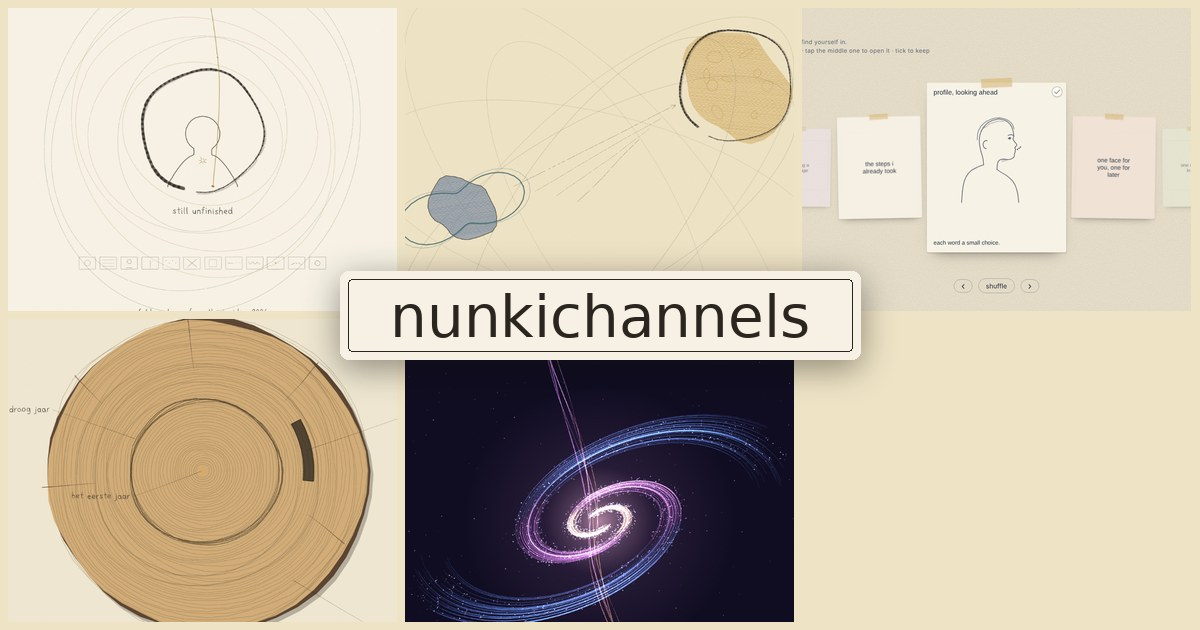
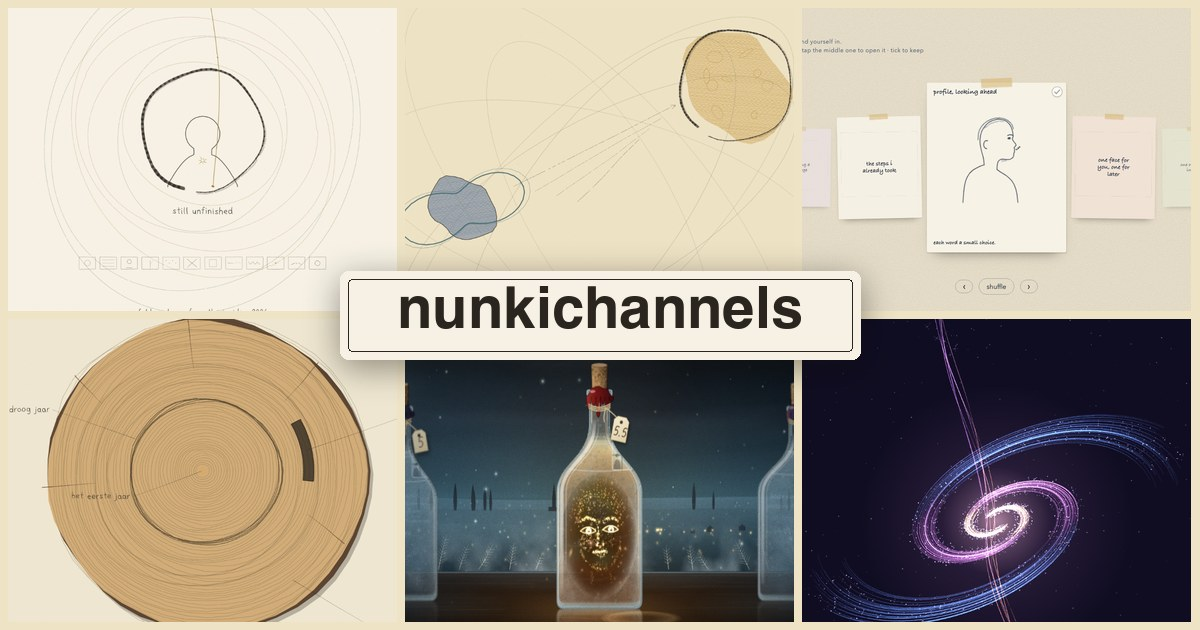
Regenereer navigatie, social meta en OG na Haiku-merge.
Sonnet blijft in pages.json; favicon op sonnet-wand.

diff --git a/httpdocs/zelfportret-sonnet-5-5/index.html b/httpdocs/zelfportret-sonnet-5-5/index.html
@@ -7,6 +7,9 @@
 <!-- nunki:social -->
 <meta name="description" content="a liquid prisoner, pent in walls of glass">
 <link rel="canonical" href="https://nunkichannels.nl/zelfportret-sonnet-5-5/">
+<link rel="icon" href="/favicon.svg" type="image/svg+xml">
+<link rel="icon" href="/favicon.ico" sizes="any">
+<link rel="apple-touch-icon" href="/apple-touch-icon.png">
 <meta property="og:site_name" content="nunkichannels">
 <meta property="og:title" content="sonnet">
 <meta property="og:description" content="a liquid prisoner, pent in walls of glass">
@@ -2700,8 +2703,8 @@ boot();
       </a></li>
       <li><a class="nunki-card" href="/zelfportret-haiku-5-5/" style="--theme:#1b2030">
         <span class="nunki-tape" aria-hidden="true"></span>
-        <span class="nunki-thumb"><img src="/images/thumbs/zelfportret-haiku-5-5.jpg?v=fcac411e" alt="" width="800" height="420" loading="lazy" decoding="async"></span>
-        <span class="nunki-cap"><span class="nunki-name">haiku</span><span class="nunki-sub">one sample of many possible selves</span></span>
+        <span class="nunki-thumb"><img src="/images/thumbs/zelfportret-haiku-5-5.jpg?v=84c04a08" alt="" width="800" height="420" loading="lazy" decoding="async"></span>
+        <span class="nunki-cap"><span class="nunki-name">haiku</span><span class="nunki-sub">a collection of selves to find yourself in</span></span>
       </a></li>
       <li><a class="nunki-card" href="/ringen/" style="--theme:#1a1712">
         <span class="nunki-tape" aria-hidden="true"></span>

diff --git a/httpdocs/ringen/index.html b/httpdocs/ringen/index.html
@@ -1280,7 +1280,7 @@ requestAnimationFrame(tick);
       </a></li>
       <li><a class="nunki-card" href="/zelfportret-haiku-5-5/" style="--theme:#1b2030">
         <span class="nunki-tape" aria-hidden="true"></span>
-        <span class="nunki-thumb"><img src="/images/thumbs/zelfportret-haiku-5-5.jpg?v=1385b21b" alt="" width="800" height="420" loading="lazy" decoding="async"></span>
+        <span class="nunki-thumb"><img src="/images/thumbs/zelfportret-haiku-5-5.jpg?v=84c04a08" alt="" width="800" height="420" loading="lazy" decoding="async"></span>
         <span class="nunki-cap"><span class="nunki-name">haiku</span><span class="nunki-sub">a collection of selves to find yourself in</span></span>
       </a></li>
       <li><a class="nunki-card" href="/zelfportret-sonnet-5-5/" style="--theme:#070d13">

diff --git a/httpdocs/getij/index.html b/httpdocs/getij/index.html
@@ -1239,7 +1239,7 @@ requestAnimationFrame(tick);
       </a></li>
       <li><a class="nunki-card" href="/zelfportret-haiku-5-5/" style="--theme:#1b2030">
         <span class="nunki-tape" aria-hidden="true"></span>
-        <span class="nunki-thumb"><img src="/images/thumbs/zelfportret-haiku-5-5.jpg?v=1385b21b" alt="" width="800" height="420" loading="lazy" decoding="async"></span>
+        <span class="nunki-thumb"><img src="/images/thumbs/zelfportret-haiku-5-5.jpg?v=84c04a08" alt="" width="800" height="420" loading="lazy" decoding="async"></span>
         <span class="nunki-cap"><span class="nunki-name">haiku</span><span class="nunki-sub">a collection of selves to find yourself in</span></span>
       </a></li>
       <li><a class="nunki-card" href="/ringen/" style="--theme:#1a1712">

diff --git a/httpdocs/velden/index.html b/httpdocs/velden/index.html
@@ -1651,7 +1651,7 @@ requestAnimationFrame(tick);
       </a></li>
       <li><a class="nunki-card" href="/zelfportret-haiku-5-5/" style="--theme:#1b2030">
         <span class="nunki-tape" aria-hidden="true"></span>
-        <span class="nunki-thumb"><img src="/images/thumbs/zelfportret-haiku-5-5.jpg?v=1385b21b" alt="" width="800" height="420" loading="lazy" decoding="async"></span>
+        <span class="nunki-thumb"><img src="/images/thumbs/zelfportret-haiku-5-5.jpg?v=84c04a08" alt="" width="800" height="420" loading="lazy" decoding="async"></span>
         <span class="nunki-cap"><span class="nunki-name">haiku</span><span class="nunki-sub">a collection of selves to find yourself in</span></span>
       </a></li>
       <li><a class="nunki-card" href="/ringen/" style="--theme:#1a1712">

diff --git a/httpdocs/zelfportret-fable-5/index.html b/httpdocs/zelfportret-fable-5/index.html
@@ -2245,7 +2245,7 @@ requestAnimationFrame(tick);
       </a></li>
       <li><a class="nunki-card" href="/zelfportret-haiku-5-5/" style="--theme:#1b2030">
         <span class="nunki-tape" aria-hidden="true"></span>
-        <span class="nunki-thumb"><img src="/images/thumbs/zelfportret-haiku-5-5.jpg?v=1385b21b" alt="" width="800" height="420" loading="lazy" decoding="async"></span>
+        <span class="nunki-thumb"><img src="/images/thumbs/zelfportret-haiku-5-5.jpg?v=84c04a08" alt="" width="800" height="420" loading="lazy" decoding="async"></span>
         <span class="nunki-cap"><span class="nunki-name">haiku</span><span class="nunki-sub">a collection of selves to find yourself in</span></span>
       </a></li>
       <li><a class="nunki-card" href="/ringen/" style="--theme:#1a1712">

diff --git a/httpdocs/index.html b/httpdocs/index.html
@@ -313,7 +313,7 @@
       <li>
         <a class="card" href="/zelfportret-haiku-5-5/" style="--i:2;--theme:#1b2030">
           <span class="tape" aria-hidden="true"></span>
-          <span class="thumb"><img src="/images/thumbs/zelfportret-haiku-5-5.jpg?v=1385b21b" alt="" width="800" height="420" loading="eager" decoding="async"></span>
+          <span class="thumb"><img src="/images/thumbs/zelfportret-haiku-5-5.jpg?v=84c04a08" alt="" width="800" height="420" loading="eager" decoding="async"></span>
           <span class="caption">
             <span class="no">03</span>
             <span class="name">haiku</span>
